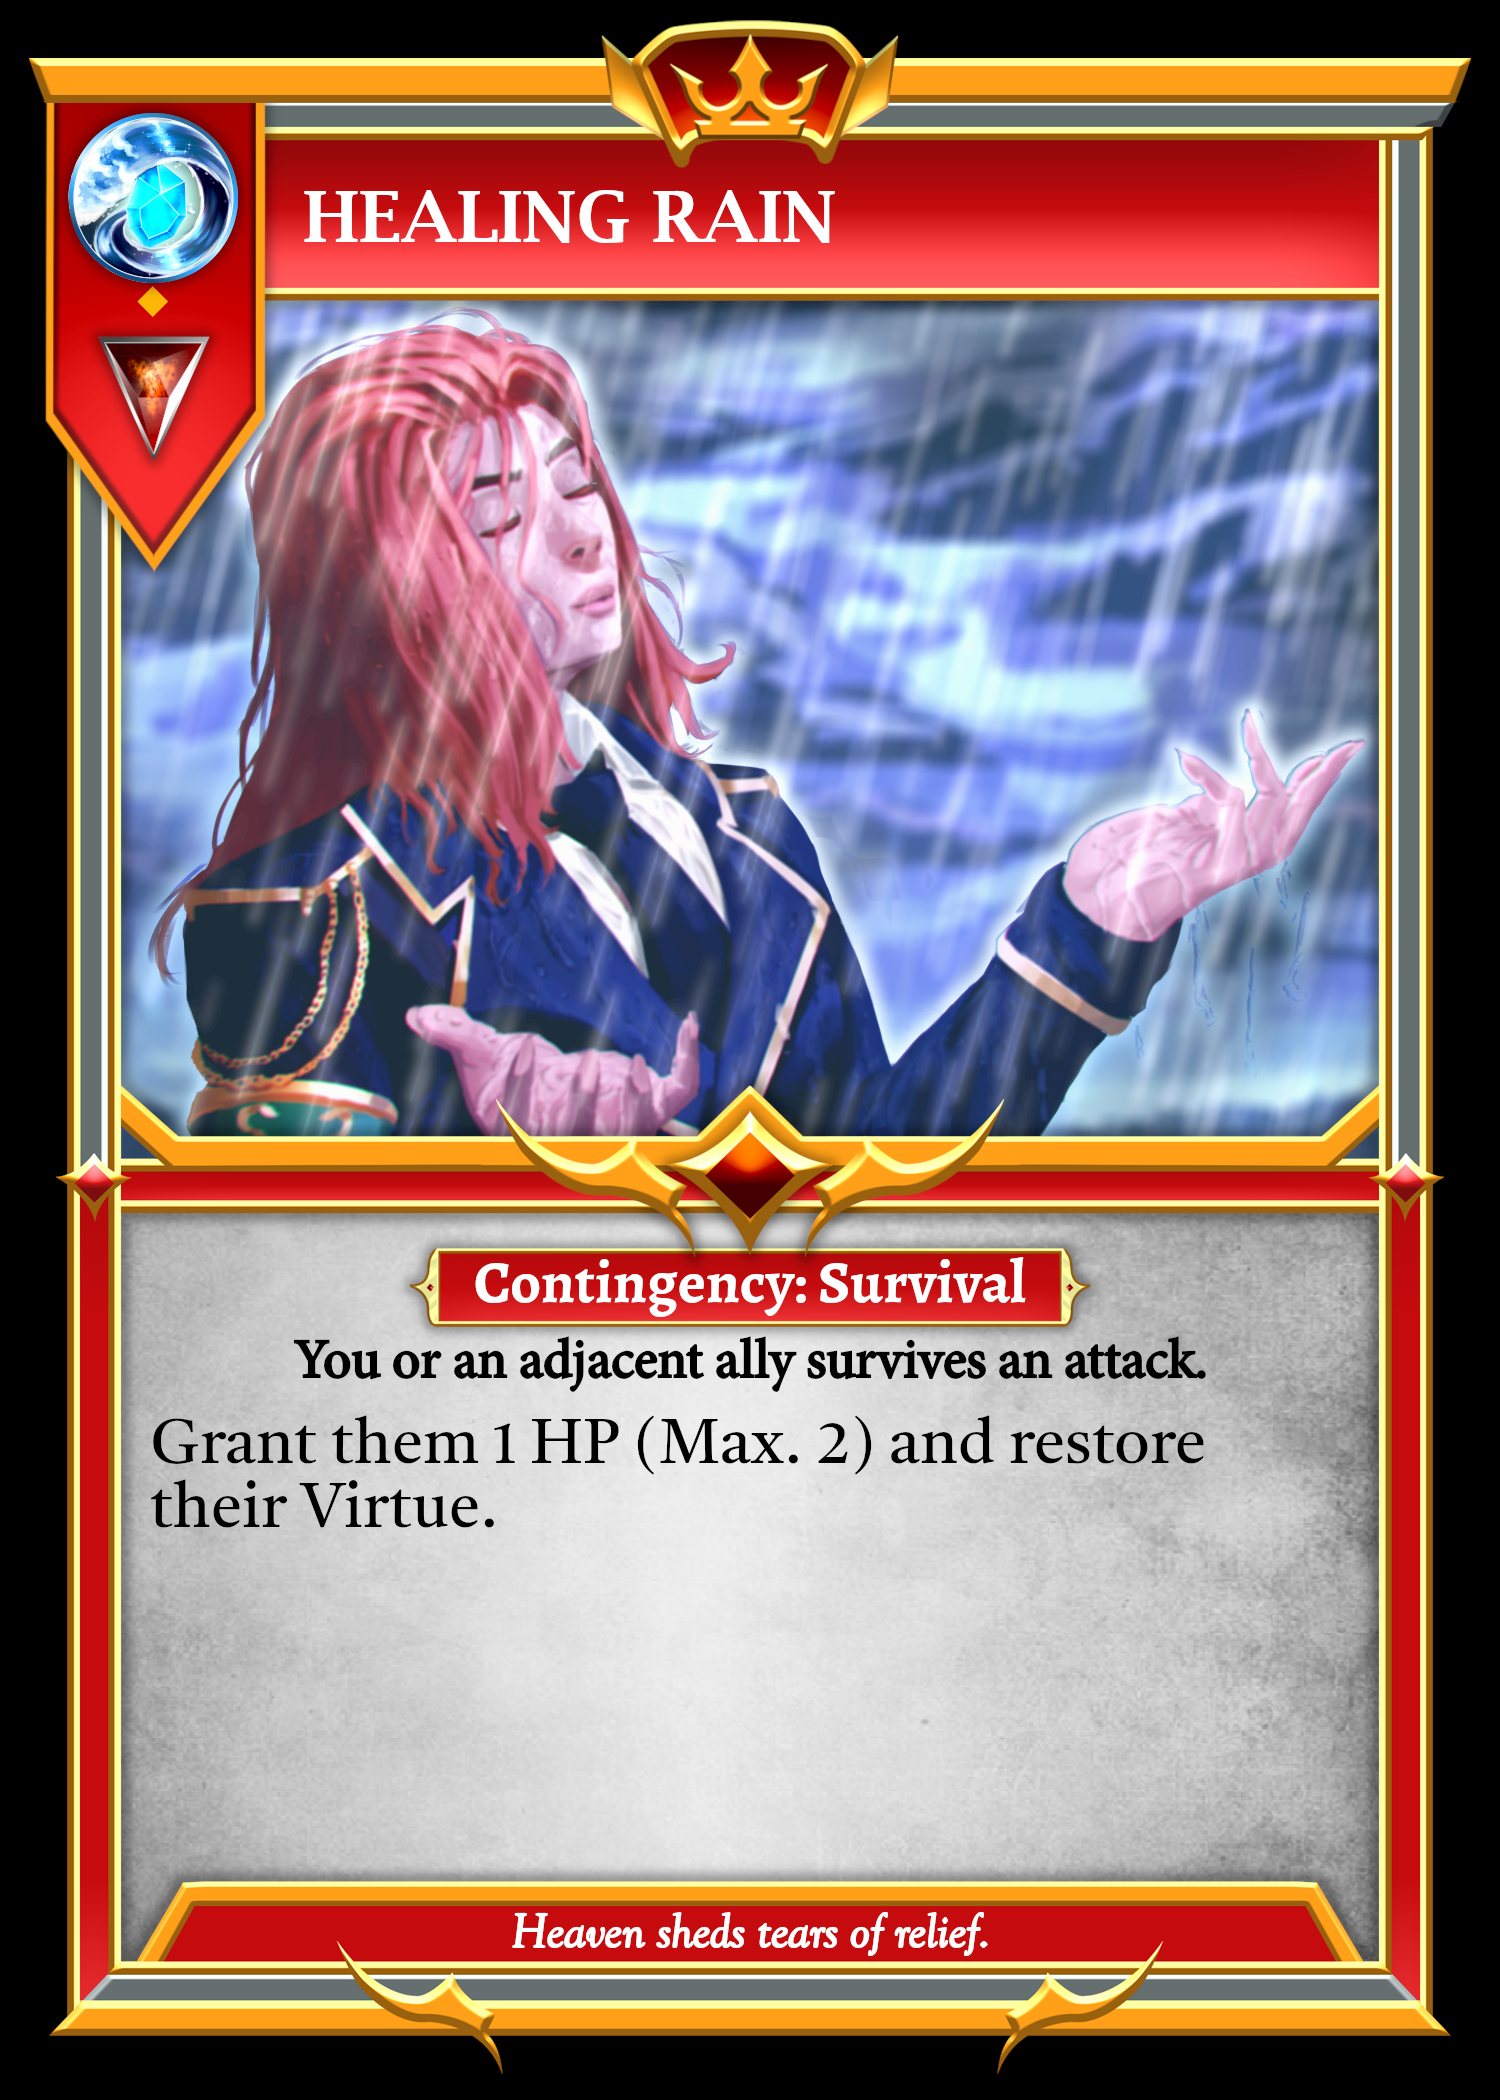
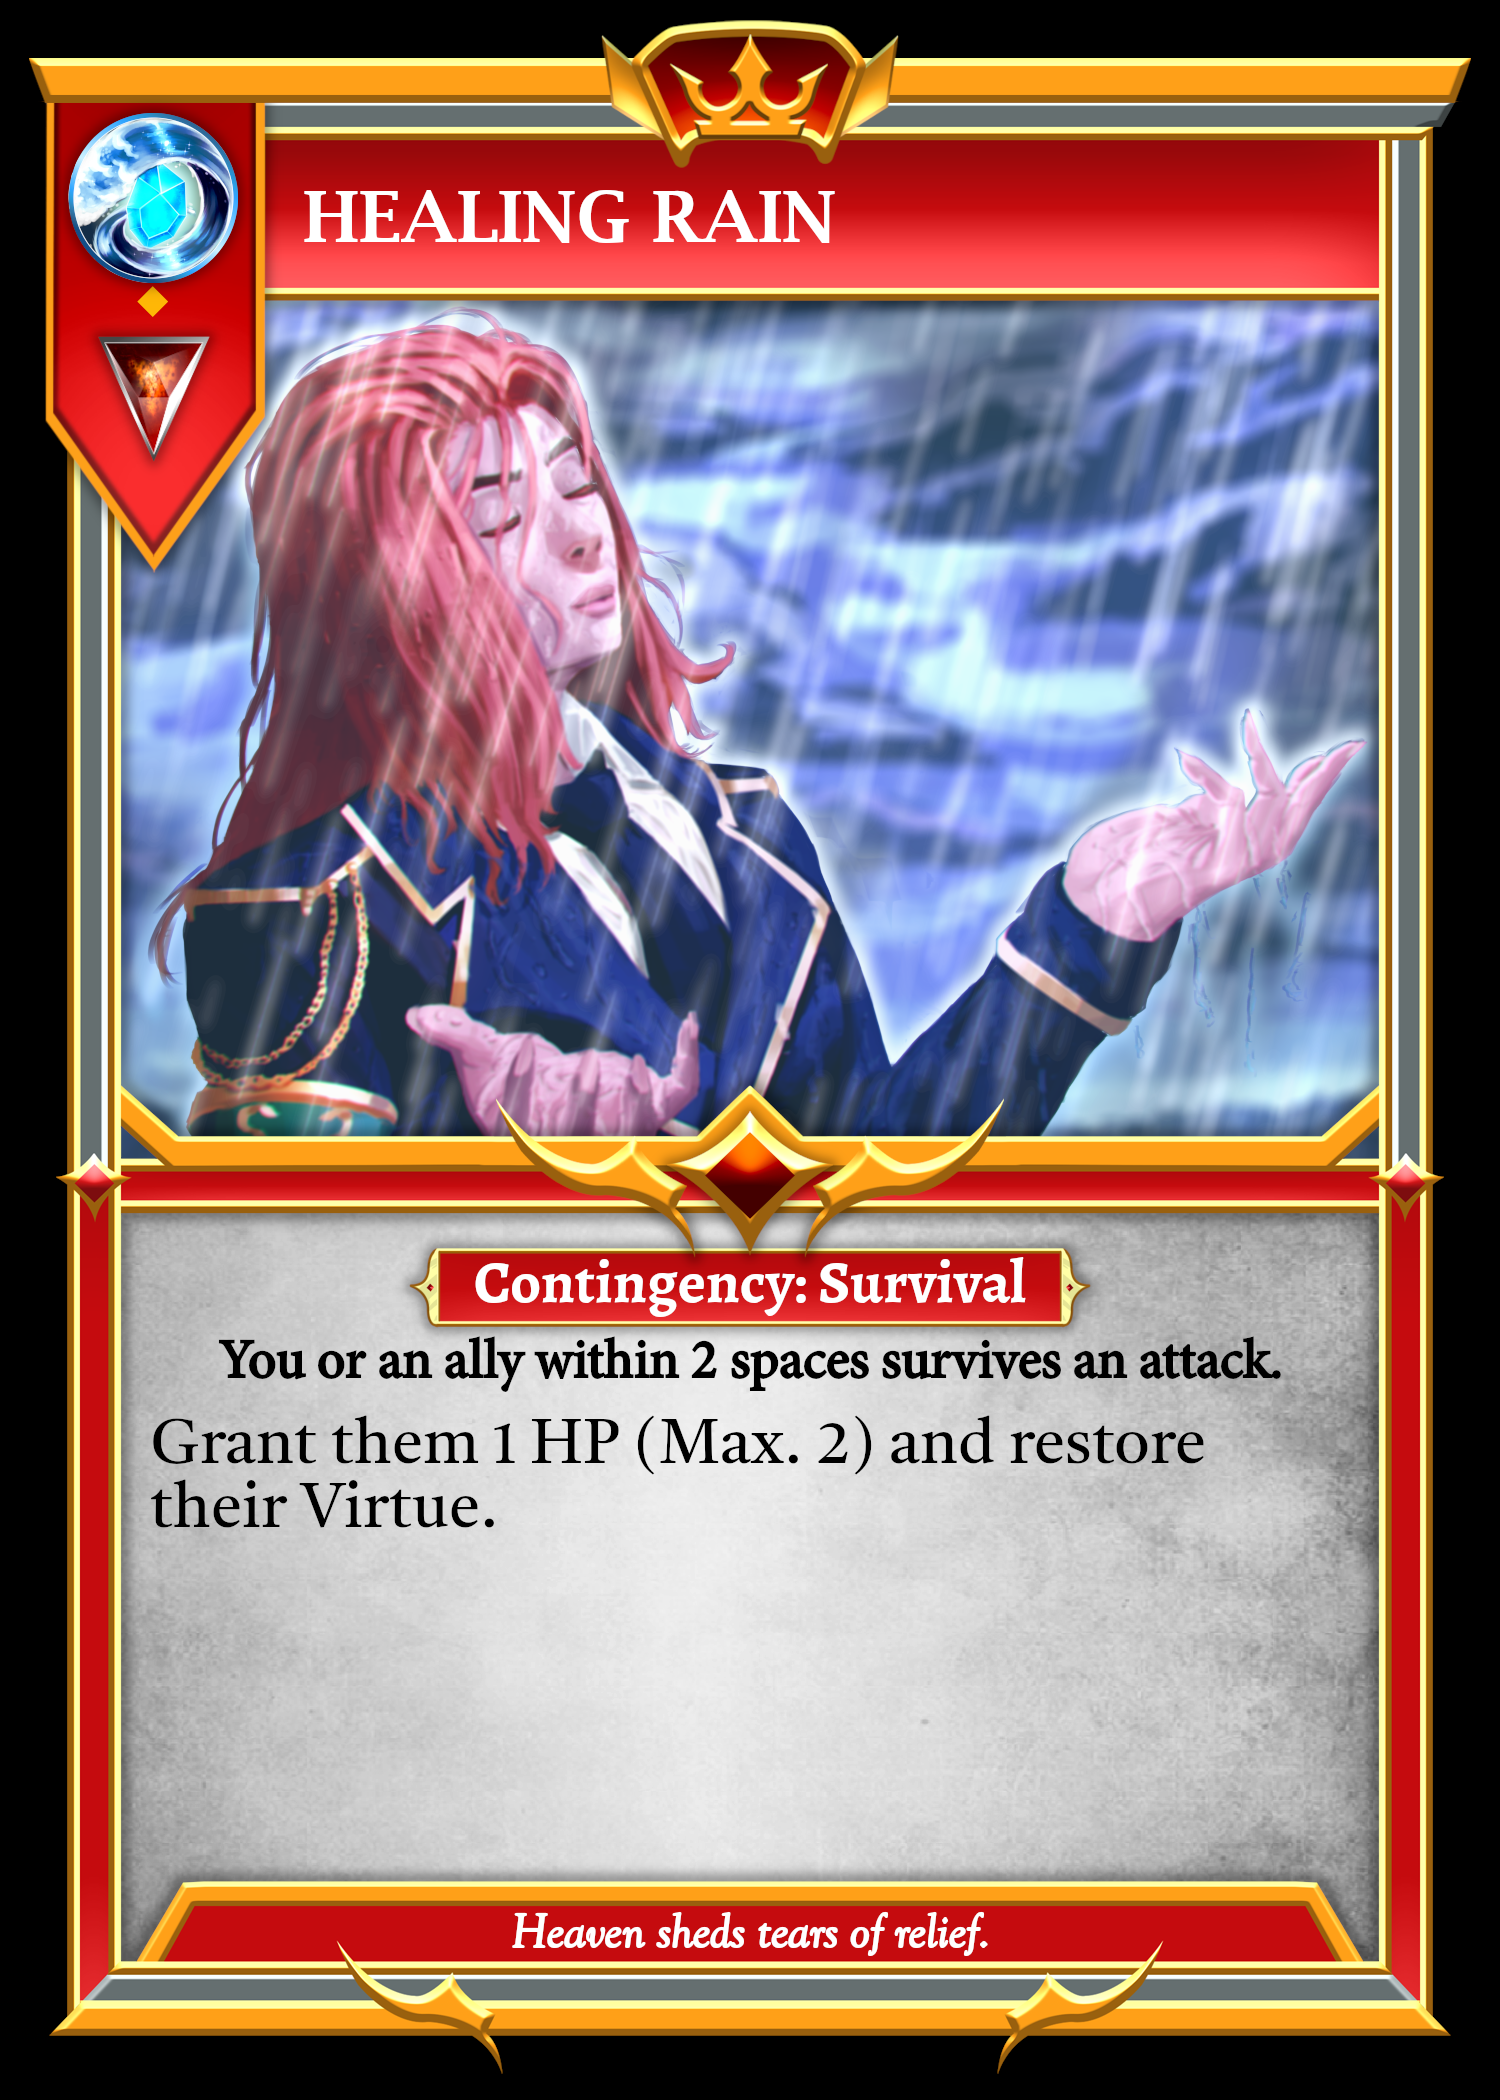
buffed healing rain.

Changed region(s): [[0.1533, 0.619, 0.8587, 0.681]]

diff --git a/src/hooks/useRecurringEffects.jsx b/src/hooks/useRecurringEffects.jsx
@@ -4639,7 +4639,7 @@ export const useRecurringEffects = () => {
     //end "Select Healing Rain Activator"
     newGameState.currentResolution.pop();
 
-    const zonesWithAllies = getZonesWithAllies(victim, 1, true);
+    const zonesWithAllies = getZonesWithAllies(victim, 2, true);
     let zonesWithWaterScions = [];
 
     for (let z of zonesWithAllies) {
@@ -5004,9 +5004,9 @@ export const useRecurringEffects = () => {
 
   const triggerHealingRain = (victim) => {
     const zones = JSON.parse(localGameState.zones);
-    const adjacentAllies = getZonesWithAllies(victim, 1, true); // includes self
+    const alliesInRange = getZonesWithAllies(victim, 2, true); // includes self
 
-    for (let i of adjacentAllies) {
+    for (let i of alliesInRange) {
       const zone = zones[Math.floor(i / 5)][i % 5];
       const unit = localGameState[zone.player].units[zone.unitIndex];
 
